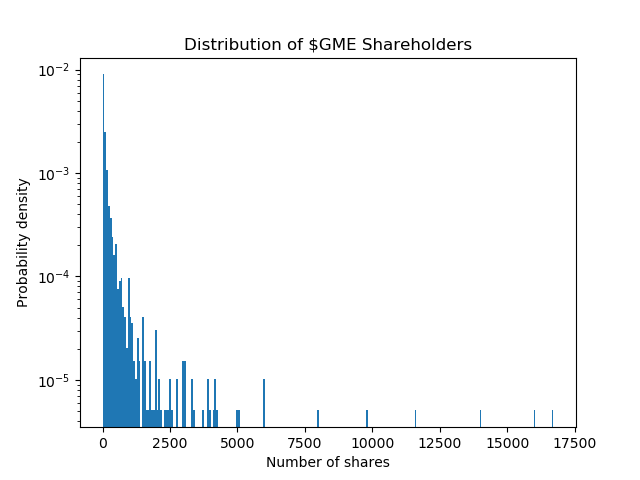
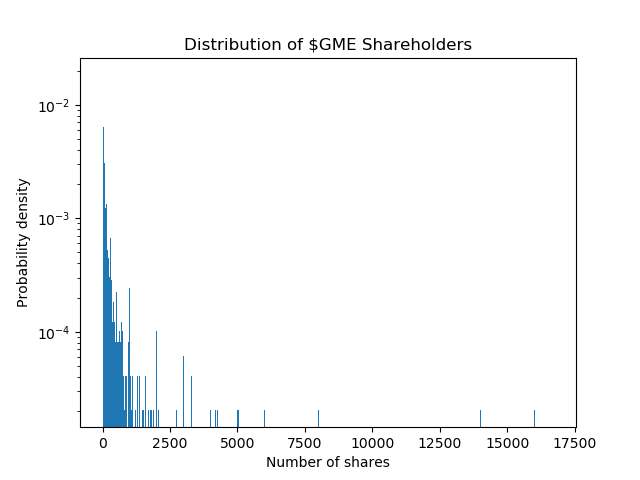
Updated plotting

diff --git a/plot.py b/plot.py
@@ -20,9 +20,8 @@ for i, line in enumerate(lines[1:]):
 #nshares = nshares[nshares<1000] # this ~triples the probability
 # For clarity, if you use either of the above trimmings, then the probability density is a measure of the probability that an ape with under 2500 (or 1000) shares is holding X shares
 
-# Plot the histogram -- 250 bins is sufficient for this, 
-# higher numbers just add noise to the result
-nbins = 250
+# Plot the histogram
+nbins = 1000
 ncount, bins, patches = plt.hist(nshares, bins=nbins, 
                                  density=True, log=True, 
                                  label='Histogram')
@@ -33,14 +32,22 @@ plt.savefig('histogram.png')
 
 # KDE to determine the underlying dist'n
 rep = ss.gaussian_kde(nshares)
-val = rep.evaluate(bins)
+val = rep.evaluate(bins) # Evaluate the KDE according to the histogram bins
 
 plt.plot(bins, val, label='KDE')
 plt.legend(loc='best')
 plt.savefig('histogram_with_kde_log.png')
+# Trim to under 1000 shares for prettier plots
+plt.xlim(-10, 1000)
+plt.ylim(1e-5, 1e-1)
+plt.savefig('histogram_with_kde_log_under1k.png')
 plt.yscale('linear')
+plt.ylim(0, 0.02) # so that the plot looks reasonable...
+plt.savefig('histogram_with_kde_linear_under1k.png')
 plt.ylim(0, 0.007)
+plt.xlim(-850, 17500) # back to orignial scale
 plt.savefig('histogram_with_kde_linear.png')
 plt.close()
+
 
 
